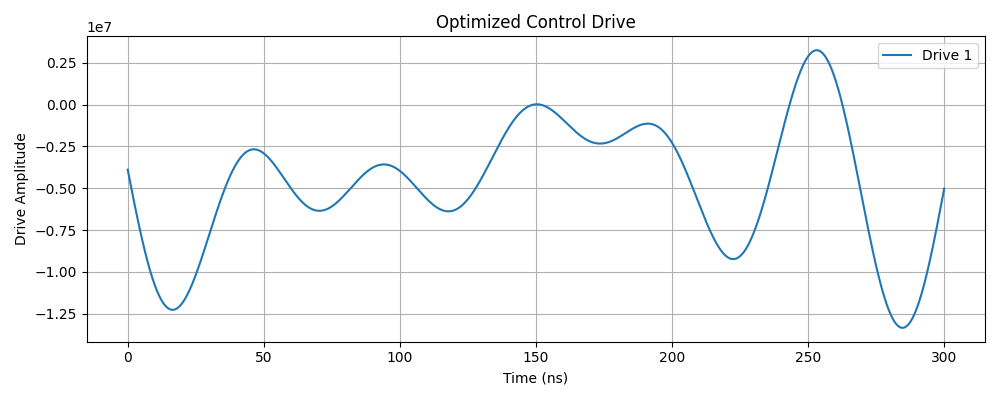
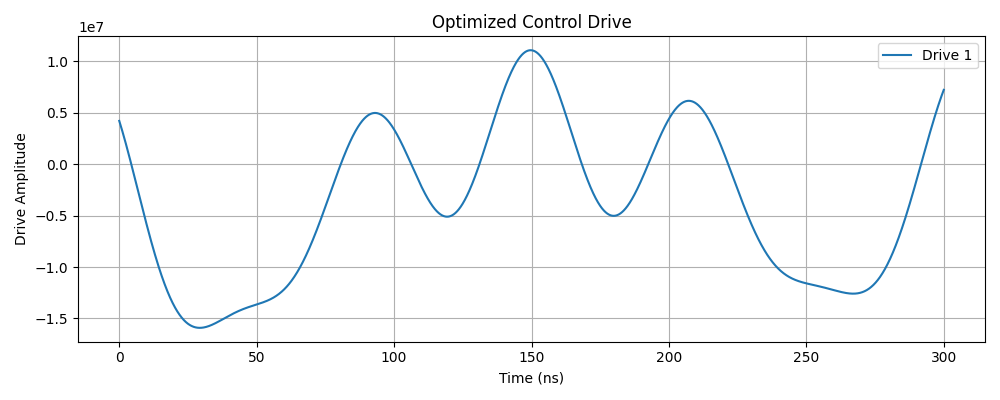
.

diff --git a/src/optimize_pulse_multi.py b/src/optimize_pulse_multi.py
@@ -1,0 +1,162 @@
+import numpy as np
+import torch
+import matplotlib.pyplot as plt
+
+from pulse_settings import PulseSettings, get_initial_guess
+from get_drive import get_drive
+from objective_functions import get_goal_function
+from evolution import get_time_grid, get_evolution_vector
+from quantum_model import get_U, Λ_s, Λ00, Λ01, Λ10, Λ11, Λm10, Λm11
+
+from cma_runner import (
+    initialize_cmaes,
+    cmaes_iteration_step,
+    get_scaling_from_pulse_settings,
+    unnormalize_params
+)
+
+# -----------------------------
+# Step 1: Define pulse settings
+# -----------------------------
+pulse_settings_list = [
+    PulseSettings(
+        basis_type="Custom",
+        basis_size=8,
+        maximal_pulse=1 * np.pi * 5e6,
+        maximal_amplitude=(1/3) * np.pi * 5e6,
+        maximal_frequency=20e6 * 2 * np.pi,
+        minimal_frequency=0,
+        maximal_phase=100 * np.pi
+    )
+]
+
+# -----------------------------
+# Step 2: Simulation parameters
+# -----------------------------
+duration_ns = 300
+steps_per_ns = 10
+time_grid = get_time_grid(duration_ns, steps_per_ns)
+
+# -----------------------------
+# Step 3: Detuning Δ
+# -----------------------------
+Λ_dict = {
+    0: Λ00, 1: Λ01, 2: Λ00, 3: Λ01, 4: Λ00, 5: Λ01,
+    6: Λ10, 7: Λ11, 8: Λ10, 9: Λ11, 10: Λ10, 11: Λ11
+}
+initial_target_pairs = [(0, 6), (1, 7), (2, 8), (3, 9)]
+# Use the first pair to compute global Δ
+Δ = (Λ_dict[initial_target_pairs[0][1]] - Λ_s).item()
+
+# -----------------------------
+# Step 4: Multi-State Preparation objective
+# -----------------------------
+goal_fn = get_goal_function(
+    get_u=lambda Ω, dt, t: get_U(Ω, dt, t, Δ),
+    objective_type="Multi-State Preparation",
+    time_grid=time_grid,
+    pulse_settings_list=pulse_settings_list,
+    get_drive_fn=get_drive,
+    initial_target_pairs=initial_target_pairs
+)
+
+# -----------------------------
+# Step 5: Initial guess
+# -----------------------------
+x0, f0 = get_initial_guess(
+    sample_size=3,
+    goal_function=goal_fn,
+    pulse_settings_list=pulse_settings_list
+)
+print(f"Initial guess FoM: {f0:.6e}")
+
+# Optional: custom initial guess (commented)
+# def generate_custom_initial_guess(...):
+#     ...
+# x0 = generate_custom_initial_guess(pulse_settings_list)
+# f0 = goal_fn(x0)
+# print(f"Custom initial guess FoM: {f0:.6e}")
+
+# -----------------------------
+# Step 6: CMA-ES optimization
+# -----------------------------
+algo_type = "CMA-ES"  # or "Nelder Mead"
+iterations = 100
+superiterations = 1
+log = True
+verbose = True
+
+if algo_type == "CMA-ES":
+    es, solutions_norm, values, scale = initialize_cmaes(
+        goal_fn, x0, pulse_settings_list, sigma_init=0.001
+    )
+    for _ in range(superiterations):
+        for j in range(iterations):
+            es, solutions_norm, values = cmaes_iteration_step(
+                goal_fn, es, solutions_norm, values, scale
+            )
+            best_idx = int(np.argmin(values))
+            if verbose:
+                print(f"CMA‑ES Iter {j+1}/{iterations}: FoM = {values[best_idx]:.6e}")
+            if log:
+                with open("fom_log.txt", "a") as f:
+                    f.write(f"{j},{values[best_idx]:.6e}\n")
+
+    best_idx = int(np.argmin(values))
+    best_params = solutions_norm[best_idx]
+    x_opt = torch.tensor(unnormalize_params(best_params, scale), dtype=torch.float64)
+    f_opt = values[best_idx]
+else:
+    raise ValueError(f"Unsupported algorithm: {algo_type}")
+
+# -----------------------------
+# Step 7: Save and report
+# -----------------------------
+print("\nOptimization complete.")
+print(f"Best FoM: {f_opt:.6e}")
+print("Best parameters:", x_opt.numpy())
+np.savetxt("best_params.txt", x_opt.numpy())
+with open("best_fom.txt", "w") as f:
+    f.write(str(f_opt))
+
+# -----------------------------
+# Step 8: Visualize
+# -----------------------------
+optimized_drive = get_drive(time_grid, x_opt, pulse_settings_list)
+
+# Plot control drives
+plt.figure(figsize=(10, 4))
+for i, d in enumerate(optimized_drive):
+    plt.plot(time_grid.numpy() * 1e9, d.numpy(), label=f"Drive {i+1}")
+plt.xlabel("Time (ns)")
+plt.ylabel("Drive Amplitude")
+plt.title("Optimized Control Drives")
+plt.legend()
+plt.grid(True)
+plt.tight_layout()
+plt.savefig("optimized_drive.png")
+plt.show()
+
+# Plot population transfers for each pair
+plt.figure(figsize=(8, 6))
+for init_idx, tgt_idx in initial_target_pairs:
+    ψ0 = torch.zeros(12, dtype=torch.complex128)
+    ψ0[init_idx] = 1.0
+
+    states = get_evolution_vector(
+        lambda Ω, dt, t: get_U(Ω, dt, t, Δ),
+        time_grid,
+        optimized_drive,
+        ψ0
+    )
+    pop = torch.stack([torch.abs(s) ** 2 for s in states]).numpy()
+    plt.plot(time_grid.numpy() * 1e9, pop[:, tgt_idx], label=f"{init_idx} → {tgt_idx}")
+
+plt.xlabel("Time (ns)")
+plt.ylabel("Target Population")
+plt.title("Multi‑State Population Transfer")
+plt.legend()
+plt.grid(True)
+plt.tight_layout()
+plt.savefig("multi_state_populations.png")
+plt.show()

diff --git a/src/optimize_pulse.py b/src/optimize_pulse.py
@@ -55,6 +55,8 @@ target_index = 6
 
 Δ = (Λ_dict[target_index] - Λ_s).item()
 
+# Example: 0 → 6, 1 → 7, 2 → 8, 3 → 9
+initial_target_pairs = [(0, 6), (1, 7), (2, 8), (3, 9)]
 
 # -----------------------------
 # Step 4: Choose objective
@@ -91,6 +93,22 @@ if objective_type == "Gate Transformation":
         target_state=ψ_target,
         target_gate=target_gate
     )
+
+# -----------------------------
+# Step 4: Choose objective
+# -----------------------------
+objective_type = "Multi-State Preparation"  # <- change to use your new function
+
+goal_fn = get_goal_function(
+    get_u=lambda Ω, dt, t: get_U(Ω, dt, t, Δ),
+    objective_type=objective_type,
+    time_grid=time_grid,
+    pulse_settings_list=pulse_settings_list,
+    get_drive_fn=get_drive,
+    initial_target_pairs=initial_target_pairs  # <- pass the pair list
+)
+
+    
 
 
 # -----------------------------
@@ -246,3 +264,17 @@ plt.grid(True)
 plt.tight_layout()
 plt.savefig("population_dynamics.png")
 plt.show()
+
+for init_idx, tgt_idx in initial_target_pairs:
+    ψ0 = torch.zeros(12, dtype=dtype)
+    ψ0[init_idx] = 1.0
+
+    states = get_evolution_vector(
+        lambda Ω, dt, t: get_U(Ω, dt, t, Δ),
+        time_grid,
+        optimized_drive,
+        ψ0
+    )
+    populations = torch.stack([torch.abs(state) ** 2 for state in states]).numpy()
+
+    plt.plot(time_grid.numpy() * 1e9, populations[:, tgt_idx], label=f"{init_idx} → {tgt_idx}")
